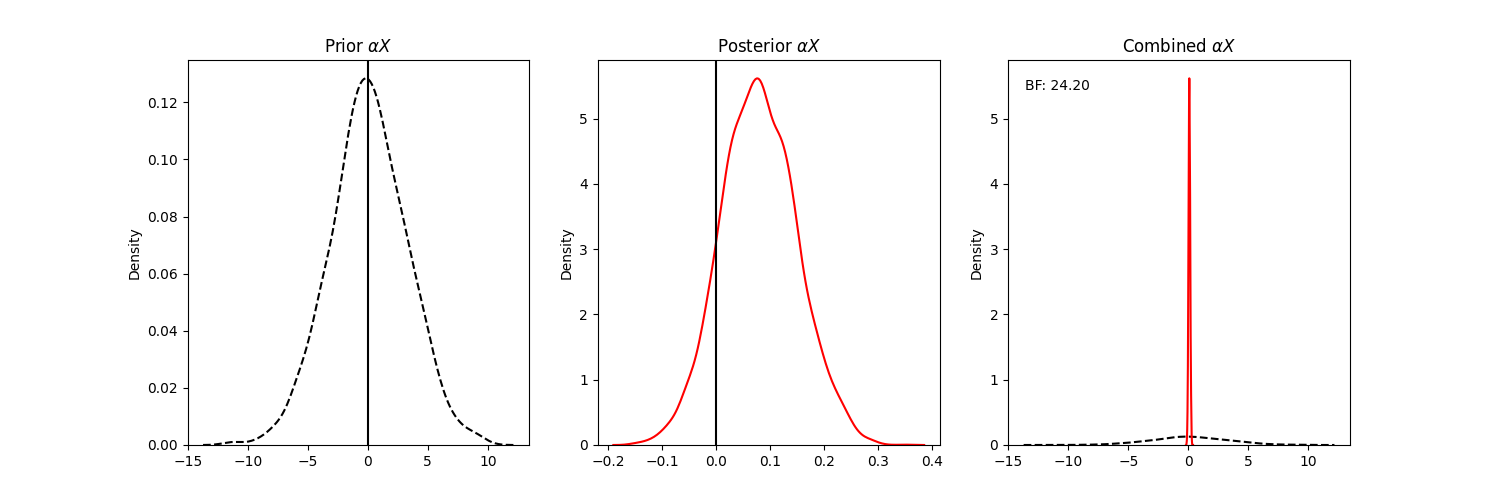
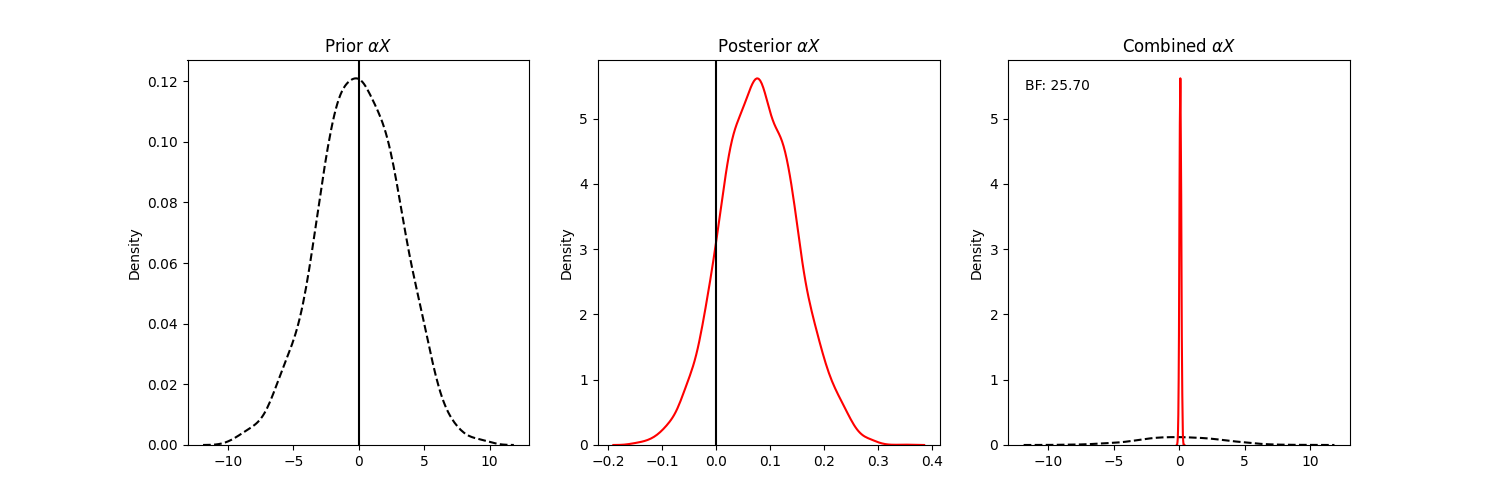
fix theta (hence rm from plot)

diff --git a/src/comparison/plot_comparison.py b/src/comparison/plot_comparison.py
@@ -15,25 +15,32 @@ def sample_truncated_normal(mean, sd, lower, upper, size=1000):
     a, b = (lower - mean) / sd, (upper - mean) / sd
     return truncnorm.rvs(a, b, loc=mean, scale=sd, size=size)
 
-def savage_dickey_plot_orl(data, parameters=[("alpha_a_rew", "$\\alpha A_{rew}$"), ("alpha_a_pun", "$\\alpha A_{pun}$"), ("alpha_K", "$\\alpha K$"), ("alpha_theta","$\\alpha \\theta$"), ("alpha_omega_f","$\\alpha \omega_F$"), ("alpha_omega_p", "$\\alpha \omega_P$")], save_path=None):
-    # initialize plot
-    fig, ax = plt.subplots(2, 3, figsize=(15, 10))
+def savage_dickey_plot_orl(data, parameters=[("alpha_a_rew", "$\\alpha A_{rew}$"), ("alpha_a_pun", "$\\alpha A_{pun}$"), ("alpha_K", "$\\alpha K$"), ("alpha_omega_f","$\\alpha \omega_F$"), ("alpha_omega_p", "$\\alpha \omega_P$")], save_path=None):
+    '''
+    Plot the prior and posterior distributions of the parameters of the ORL model. Note that theta is not included as it is not estimated.
+    '''
+    # determine num of rows and cols 
+    num_params = len(parameters)
+    num_cols = 3
+    num_rows = num_params // num_cols + (num_params % num_cols > 0)
+
+    # define plot
+    fig, axes = plt.subplots(num_rows, num_cols, figsize=(15, 10))
+    if num_rows > 1:  # If more than one row, flatten the axes array
+        axes = axes.flatten()
 
     # define priors
     priors = {
         "alpha_a_rew": lambda size: sample_truncated_normal(0, 1, -1, 1, size),
         "alpha_a_pun": lambda size: sample_truncated_normal(0, 1, -1, 1, size),
         "alpha_K": lambda size: np.random.normal(0, 1, size),
-        "alpha_theta": lambda size: np.random.normal(0, 1, size),
         "alpha_omega_f": lambda size: np.random.normal(0, 1, size),
         "alpha_omega_p": lambda size: np.random.normal(0, 1, size)
-        # Add other priors if necessary
     }
 
-    # loop over parameters and plot
+    # loop over params
     for i, (param, name) in enumerate(parameters):
-        # define axes
-        x = ax[i//3, i%3]
+        ax = axes[i] if num_rows > 1 else axes
 
         # generate prior and posterior samples
         prior_samples = priors[param](1000)
@@ -43,34 +50,39 @@ def savage_dickey_plot_orl(data, parameters=[("alpha_a_rew", "$\\alpha A_{rew}$"
         prior_kde = gaussian_kde(prior_samples)
         posterior_kde = gaussian_kde(posterior_samples)
 
-        # calculate densities at the critical value 0
+        # compute densities at the critical value 0
         prior_density_at_0 = prior_kde(0)
         posterior_density_at_0 = posterior_kde(0)
 
-        # calculate Savage-Dickey density ratio (increasing the belief that there is no difference or effect)
+        # compute Savage-Dickey density ratio
         BF = prior_density_at_0 / posterior_density_at_0
 
         # plot prior and posterior
-        sns.kdeplot(prior_samples, ax=x, color="black", linestyle="--", label="Prior")
-        sns.kdeplot(posterior_samples, ax=x, color="red", linestyle="-", label="Posterior")
+        sns.kdeplot(prior_samples, ax=ax, color="black", linestyle="--", label="Prior")
+        sns.kdeplot(posterior_samples, ax=ax, color="red", linestyle="-", label="Posterior")
 
-        # set title
-        x.set_title(name)
+        # set title and labels
+        ax.set_title(name)
+        ax.set_xlabel("")
 
-        # only add legend to plot number 3
-        if i == 2:
-            x.legend()
-        
-        # rm x-label
-        x.set_xlabel("")
+        # write Savage-Dickey in plot
+        ax.text(0.05, 0.95, f"BF: {BF[0]:.2f}", transform=ax.transAxes, verticalalignment='top')
 
-        # annotate Savage-Dickey density ratio
-        x.text(0.05, 0.95, f"BF: {BF[0]:.2f}", transform=x.transAxes, verticalalignment='top')
+        # only add legend to the first plot
+        if i == 0:
+            ax.legend()
 
-    # save plot if a path is provided
+    # rm empty subplots if the number of parameters is less than the number of subplots
+    for j in range(num_params, num_rows * num_cols):
+        if num_rows > 1:
+            fig.delaxes(axes[j])
+        else:
+            fig.delaxes(axes)
+
+    # adjust layout and save plot if a path is provided
+    plt.tight_layout()
     if save_path is not None:
         plt.savefig(save_path)
-
 
 def savage_dickey_plot_outcome(data, parameters=[("alpha", "$\\alpha X$")], save_path=None):
     # Define a figure with three subplots
